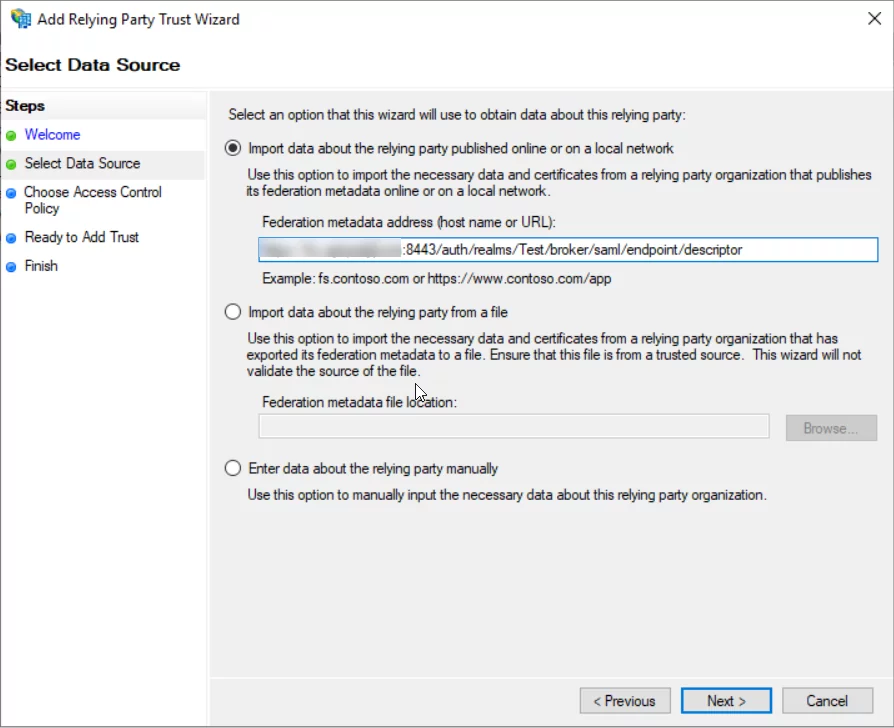
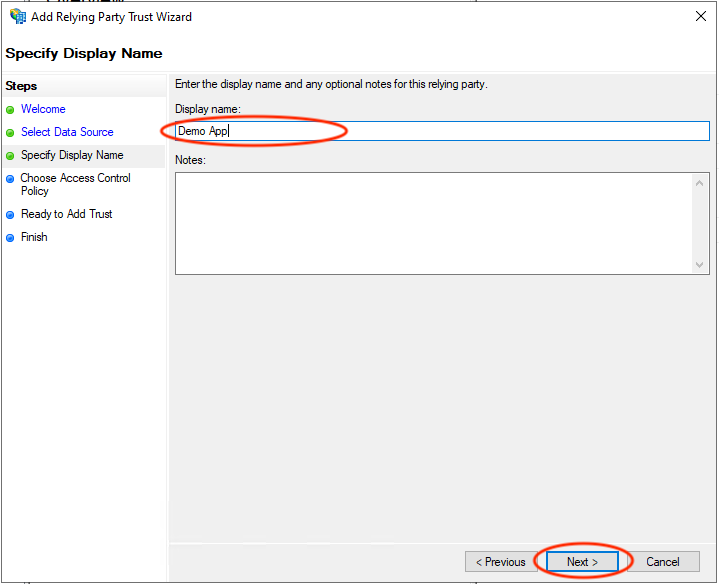
update images

Changed region(s): [[0.0, 0.0, 1.0, 1.0], [0.2448, 0.6164, 0.8567, 0.7089]]

diff --git a/idp-wizard/src/app/images/adfs/saml/index.ts b/idp-wizard/src/app/images/adfs/saml/index.ts
@@ -1,3 +1,4 @@
+import ADFS_SAML_0 from "./adfs_saml_0.png";
 import ADFS_SAML_1 from "./adfs_saml_1.png";
 import ADFS_SAML_2 from "./adfs_saml_2.png";
 import ADFS_SAML_3 from "./adfs_saml_3.png";
@@ -9,8 +10,11 @@ import ADFS_SAML_8 from "./adfs_saml_8.png";
 import ADFS_SAML_9 from "./adfs_saml_9.png";
 import ADFS_SAML_10 from "./adfs_saml_10.png";
 import ADFS_SAML_11 from "./adfs_saml_11.png";
+import ADFS_SAML_12 from "./adfs_saml_12.png";
+import ADFS_SAML_13 from "./adfs_saml_13.png";
 
 export {
+  ADFS_SAML_0,
   ADFS_SAML_1,
   ADFS_SAML_2,
   ADFS_SAML_3,
@@ -22,4 +26,6 @@ export {
   ADFS_SAML_9,
   ADFS_SAML_10,
   ADFS_SAML_11,
+  ADFS_SAML_12,
+  ADFS_SAML_13,
 };
